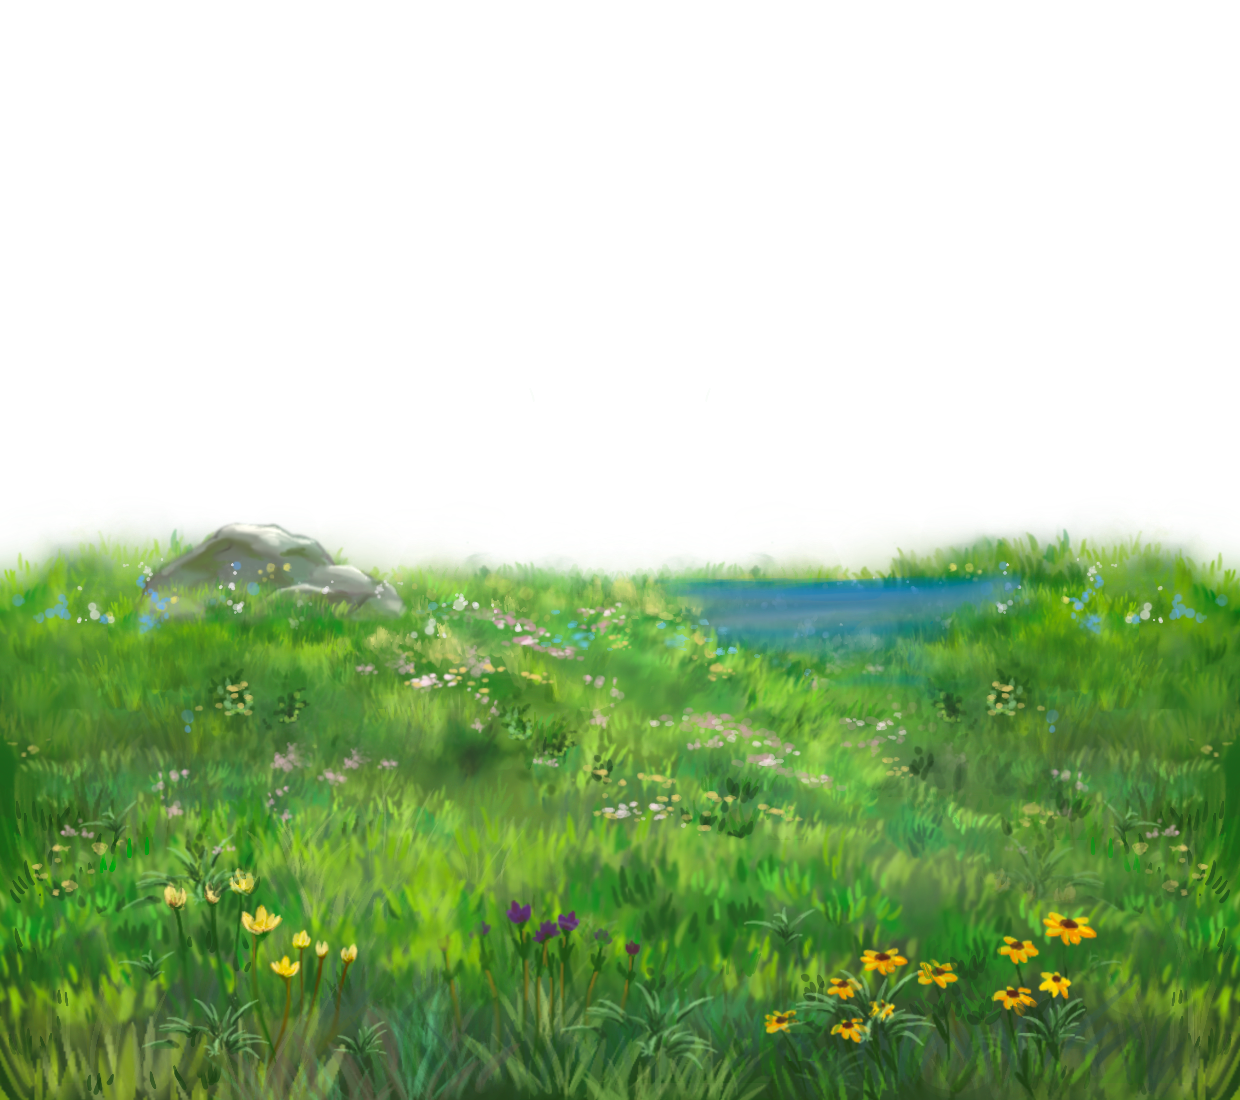
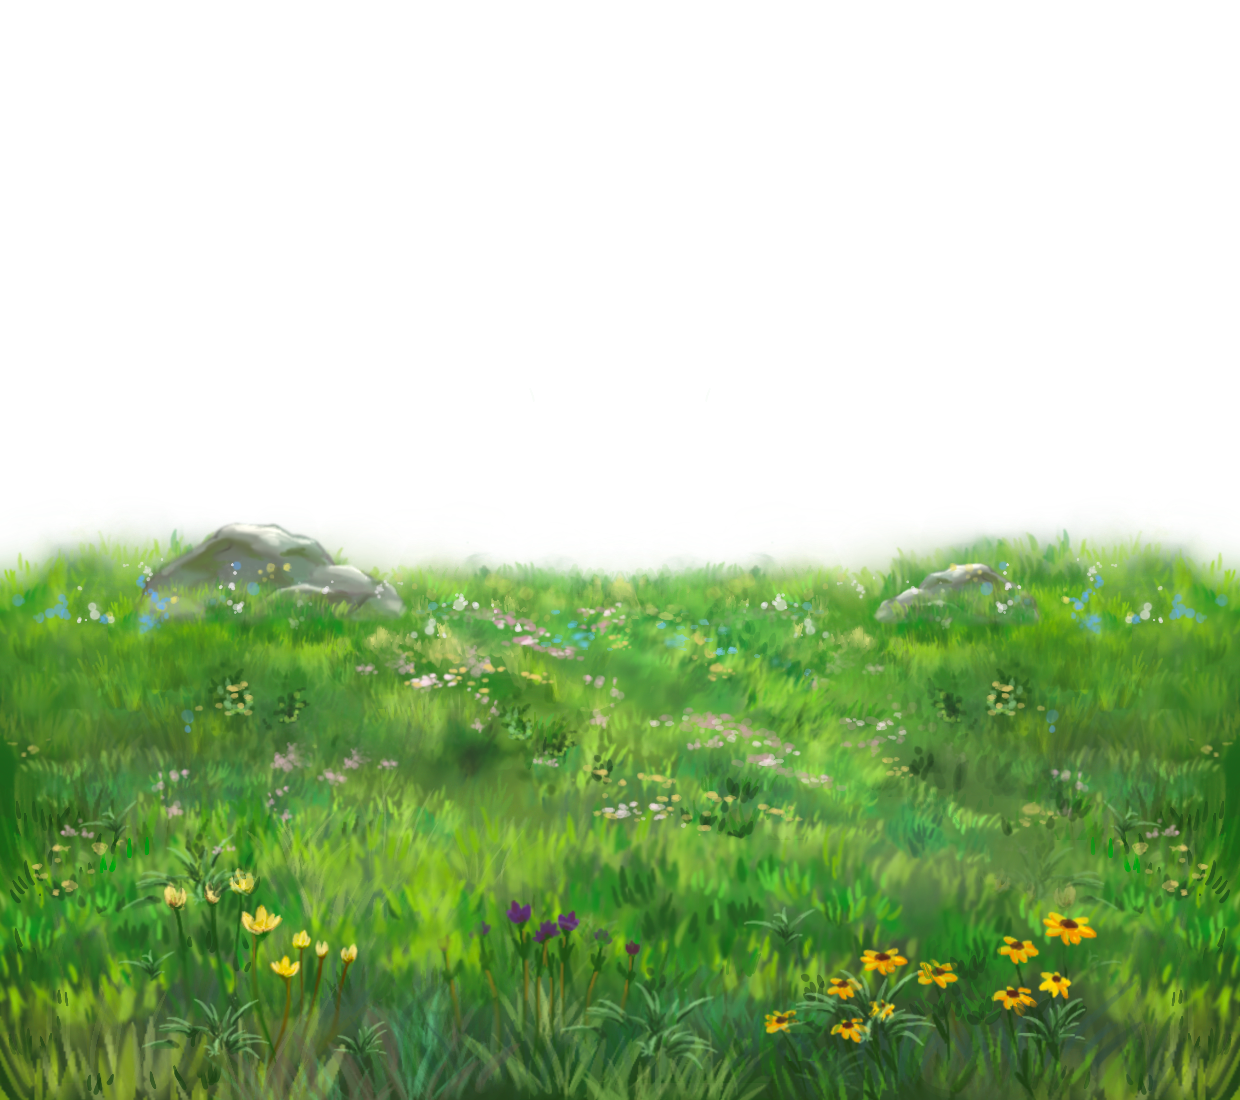
removed water from grass-tile

diff --git a/Scene1.js b/Scene1.js
@@ -83,9 +83,9 @@ class Scene1 extends Phaser.Scene {
         // Create grass foreground
         gameState.grassTile = this.physics.add.staticGroup();
         const grassTilePositions = [
-            { x: -1370, y: 520 },
-            { x: -140, y: 520 },
-            { x: 1100, y: 520 },
+            /*{ x: -1370, y: 920 },
+            { x: -140, y: 920 },
+            { x: 1100, y: 920 },*/
         ];
         grassTilePositions.forEach(grass => {
             gameState.grassTile.create(grass.x, grass.y, 'grassTile');
@@ -93,7 +93,7 @@ class Scene1 extends Phaser.Scene {
         
 
         // Ensure sunflower is placed correctly
-        gameState.sunflower.setPosition(-700, -100);
+        gameState.sunflower.setPosition(-700, 280);
 
         // Create platform assets
         gameState.platforms = this.physics.add.staticGroup();
@@ -112,8 +112,8 @@ class Scene1 extends Phaser.Scene {
         // Create grass platform
         gameState.grassPlatform = this.physics.add.staticGroup();
         const grassPositions = [
-            { x: 100, y: 1050 },  // Platform 1 starting
-            { x: 100, y: 1150 },  
+            { x: 200, y: 1150 },  // Platform 1 starting
+            
         ];
         grassPositions.forEach(plat => {
             gameState.grassPlatform.create(plat.x, plat.y, 'grassPlatform');

diff --git a/StartScene.js b/StartScene.js
@@ -9,7 +9,7 @@ class StartScene extends Phaser.Scene {
     preload() {
         // Load assets specific to the start scene
         this.load.image('bgColor', 'https://raw.githubusercontent.com/sukichn/sukichn.github.io/refs/heads/main/Resources/css/Images/cloud-background.png');
-        this.load.image('bg', 'https://raw.githubusercontent.com/sukichn/sukichn.github.io/refs/heads/main/Resources/css/Images/grass.png');
+        this.load.image('bg', 'https://raw.githubusercontent.com/sukichn/sukichn.github.io/refs/heads/main/Resources/css/Images/grass-tile.png');
         this.load.image('sunflower1', 'https://raw.githubusercontent.com/sukichn/sukichn.github.io/refs/heads/main/Resources/css/Images/sunflower1.png');
         this.load.image('sunflower2', 'https://raw.githubusercontent.com/sukichn/sukichn.github.io/refs/heads/main/Resources/css/Images/sunflower2.png');
         this.load.image('startImage', 'https://raw.githubusercontent.com/sukichn/sukichn.github.io/refs/heads/main/Resources/css/Images/Enchanted_hat_I.png'); // Replace with the actual path to your start button image

diff --git a/backgroundAssets.js b/backgroundAssets.js
@@ -3,7 +3,7 @@ const gameAlert = document.getElementById('game-alert');
 (function(global) {
     global.loadBackgroundAssets = function(scene) {
         scene.load.image('bgColor', 'https://raw.githubusercontent.com/sukichn/sukichn.github.io/refs/heads/main/Resources/css/Images/cloud-background.png');
-        scene.load.image('bg', 'https://raw.githubusercontent.com/sukichn/sukichn.github.io/refs/heads/main/Resources/css/Images/grass.png');
+        scene.load.image('bg', 'https://raw.githubusercontent.com/sukichn/sukichn.github.io/refs/heads/main/Resources/css/Images/grass-tile.png');
         scene.load.image('sunflower1', 'https://raw.githubusercontent.com/sukichn/sukichn.github.io/refs/heads/main/Resources/css/Images/sunflower1.png');
         scene.load.image('sunflower2', 'https://raw.githubusercontent.com/sukichn/sukichn.github.io/refs/heads/main/Resources/css/Images/sunflower2.png');
         scene.load.image('sunflower3', 'https://raw.githubusercontent.com/sukichn/sukichn.github.io/refs/heads/main/Resources/css/Images/sunflower3.png');
